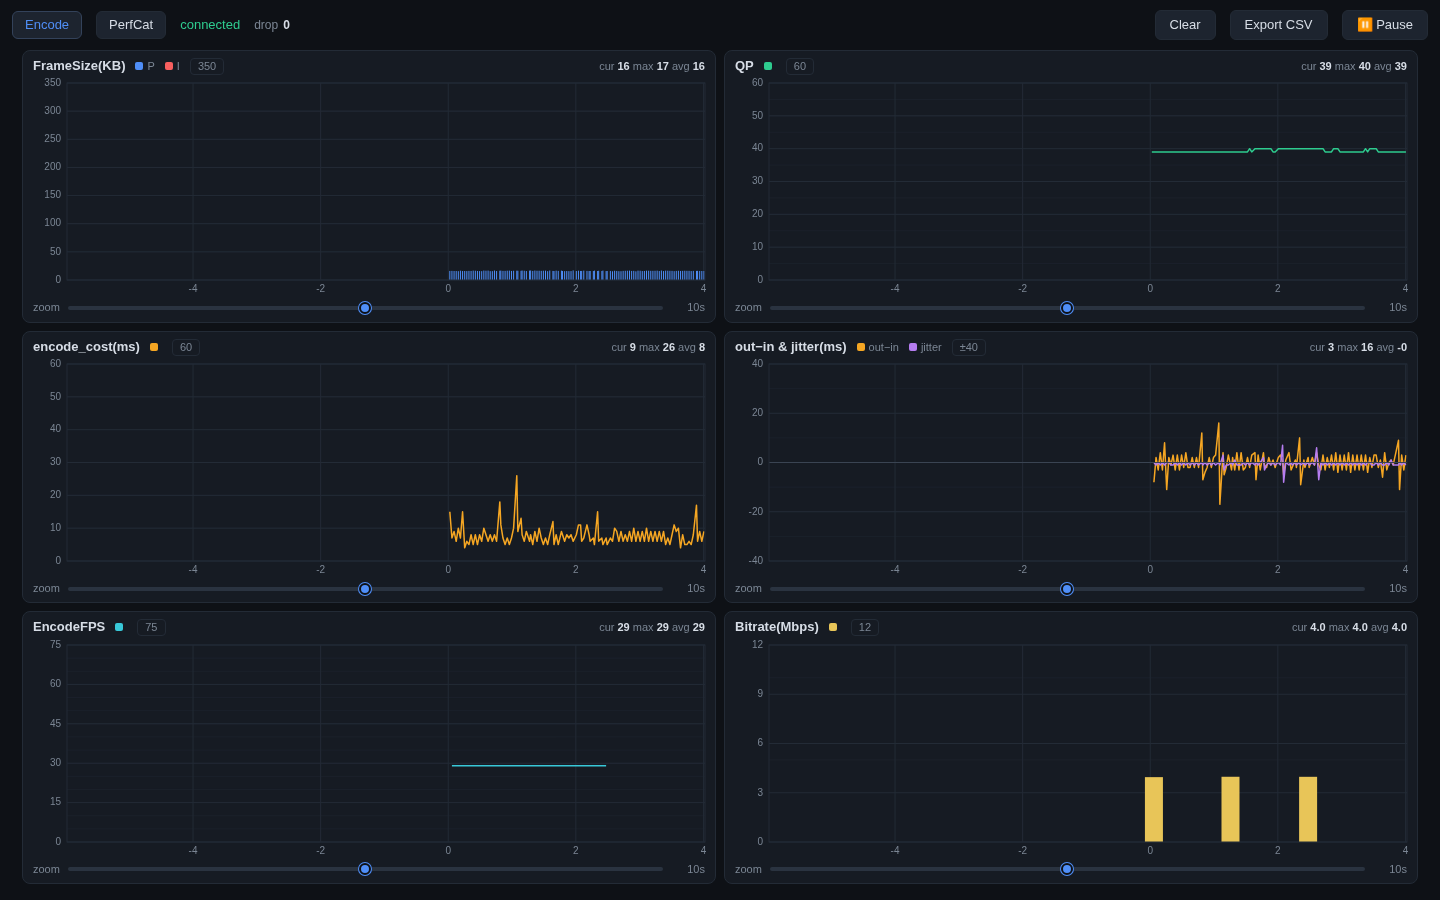
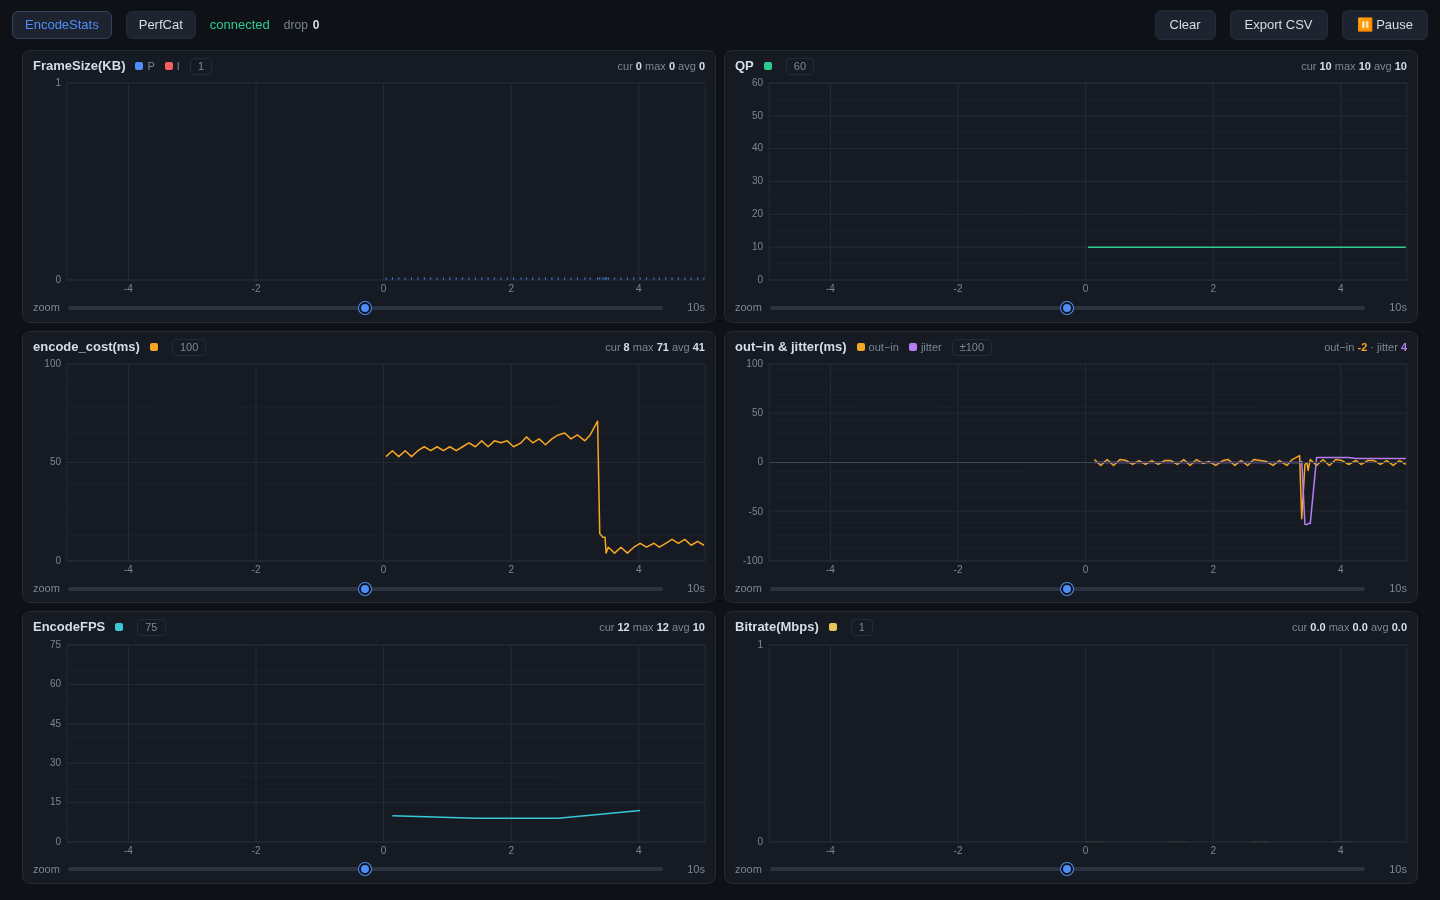
refactor(example): Encode tab 更名 EncodeStats
与 PerfCat(系统侧)命名对称,明确是编码统计视图;README/截图同步

diff --git a/example/public/index.html b/example/public/index.html
@@ -166,7 +166,7 @@
 </head>
 <body>
   <header>
-    <button id="tabEnc" class="tab on">Encode</button>
+    <button id="tabEnc" class="tab on">EncodeStats</button>
     <button id="tabSys" class="tab">PerfCat</button>
     <span id="conn"><span class="dot"></span><span id="connText">connecting…</span></span>
     <span class="badge encOnly" id="badgeDrop" title="Dropped frames by broadcast queue (server seq gaps); non-zero means curves are incomplete">drop <b>0</b></span>

diff --git a/README.md b/README.md
@@ -2,7 +2,7 @@
 
 基于 [scrcpy](https://github.com/Genymobile/scrcpy) v3.2 改造的 Android 性能监控工具:server 端逐帧采集编码器统计(帧大小、QP、编码耗时、帧率、码率)+ 1Hz 系统指标(CPU/内存/网络/GPU/磁盘 IO),经 abstract socket 以 JSON 行协议输出,Web 端双 Tab 实时图表展示。
 
-![Encode tab](example/screenshot-encode.png)
+![EncodeStats tab](example/screenshot-encode.png)
 
 ![PerfCat tab](example/screenshot-perfcat.png)
 
@@ -10,7 +10,7 @@
 
 两个 Tab 单页切换(后台 Tab 数据照常采集),每 Tab 6 张卡(2 列 × 3 行):
 
-**Encode(编码链路)**
+**EncodeStats(编码链路)**
 
 | 图表 | 说明 |
 |---|---|
